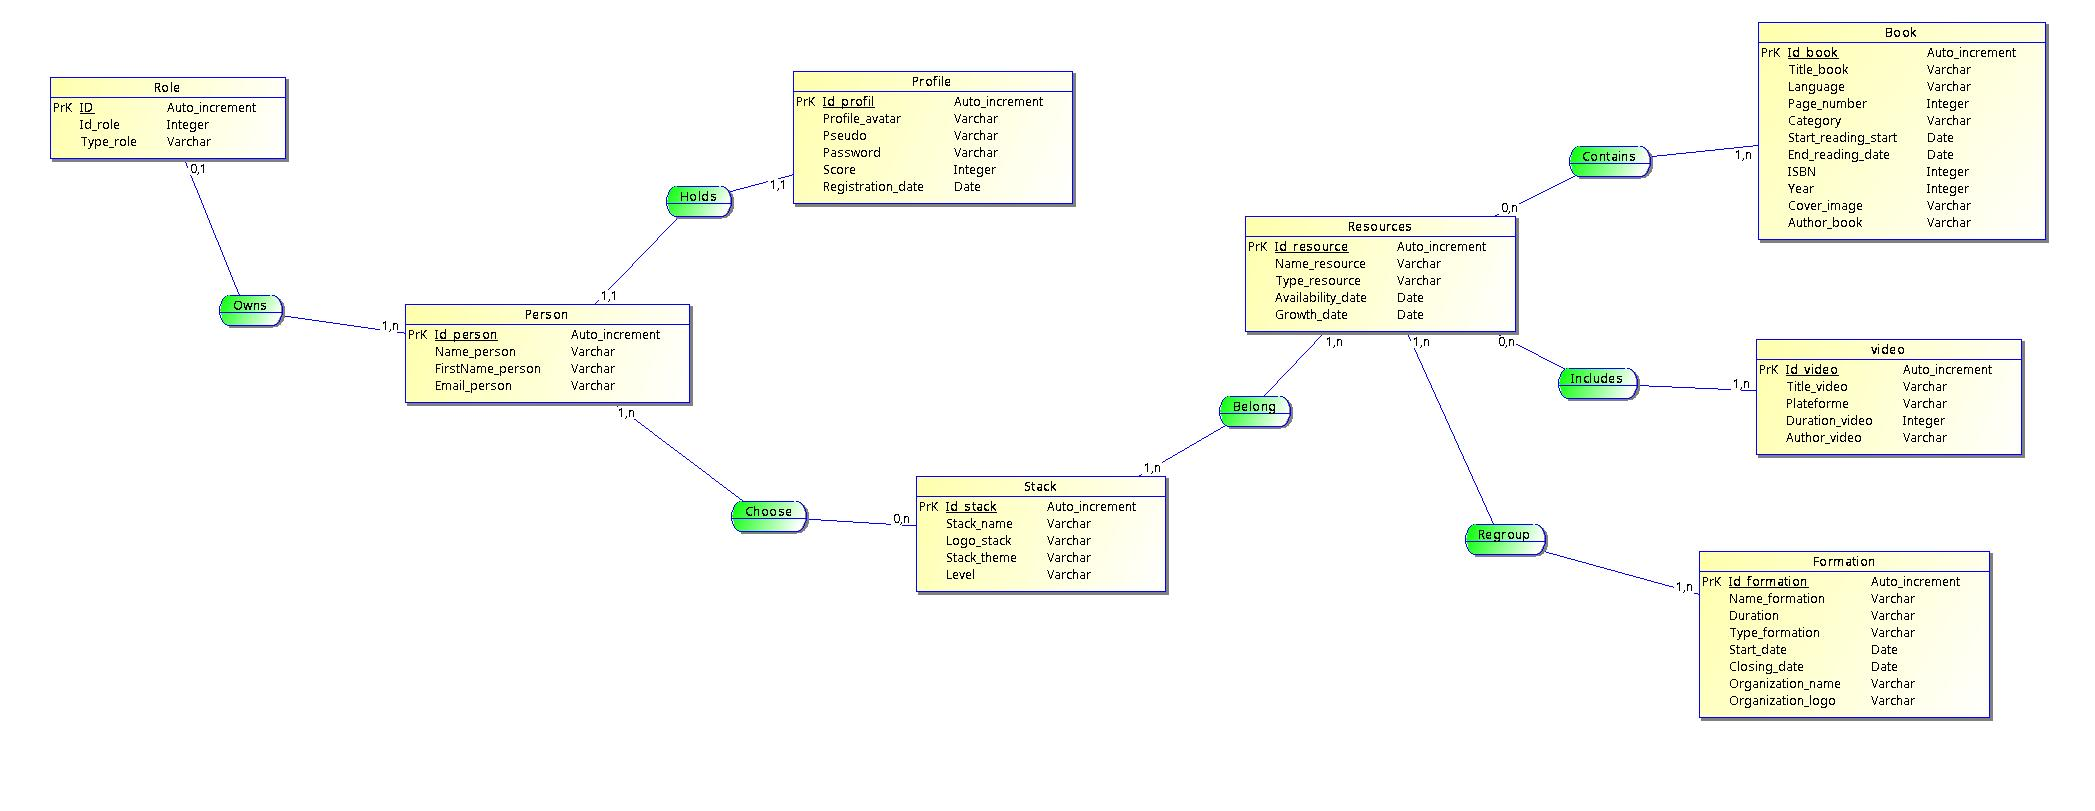
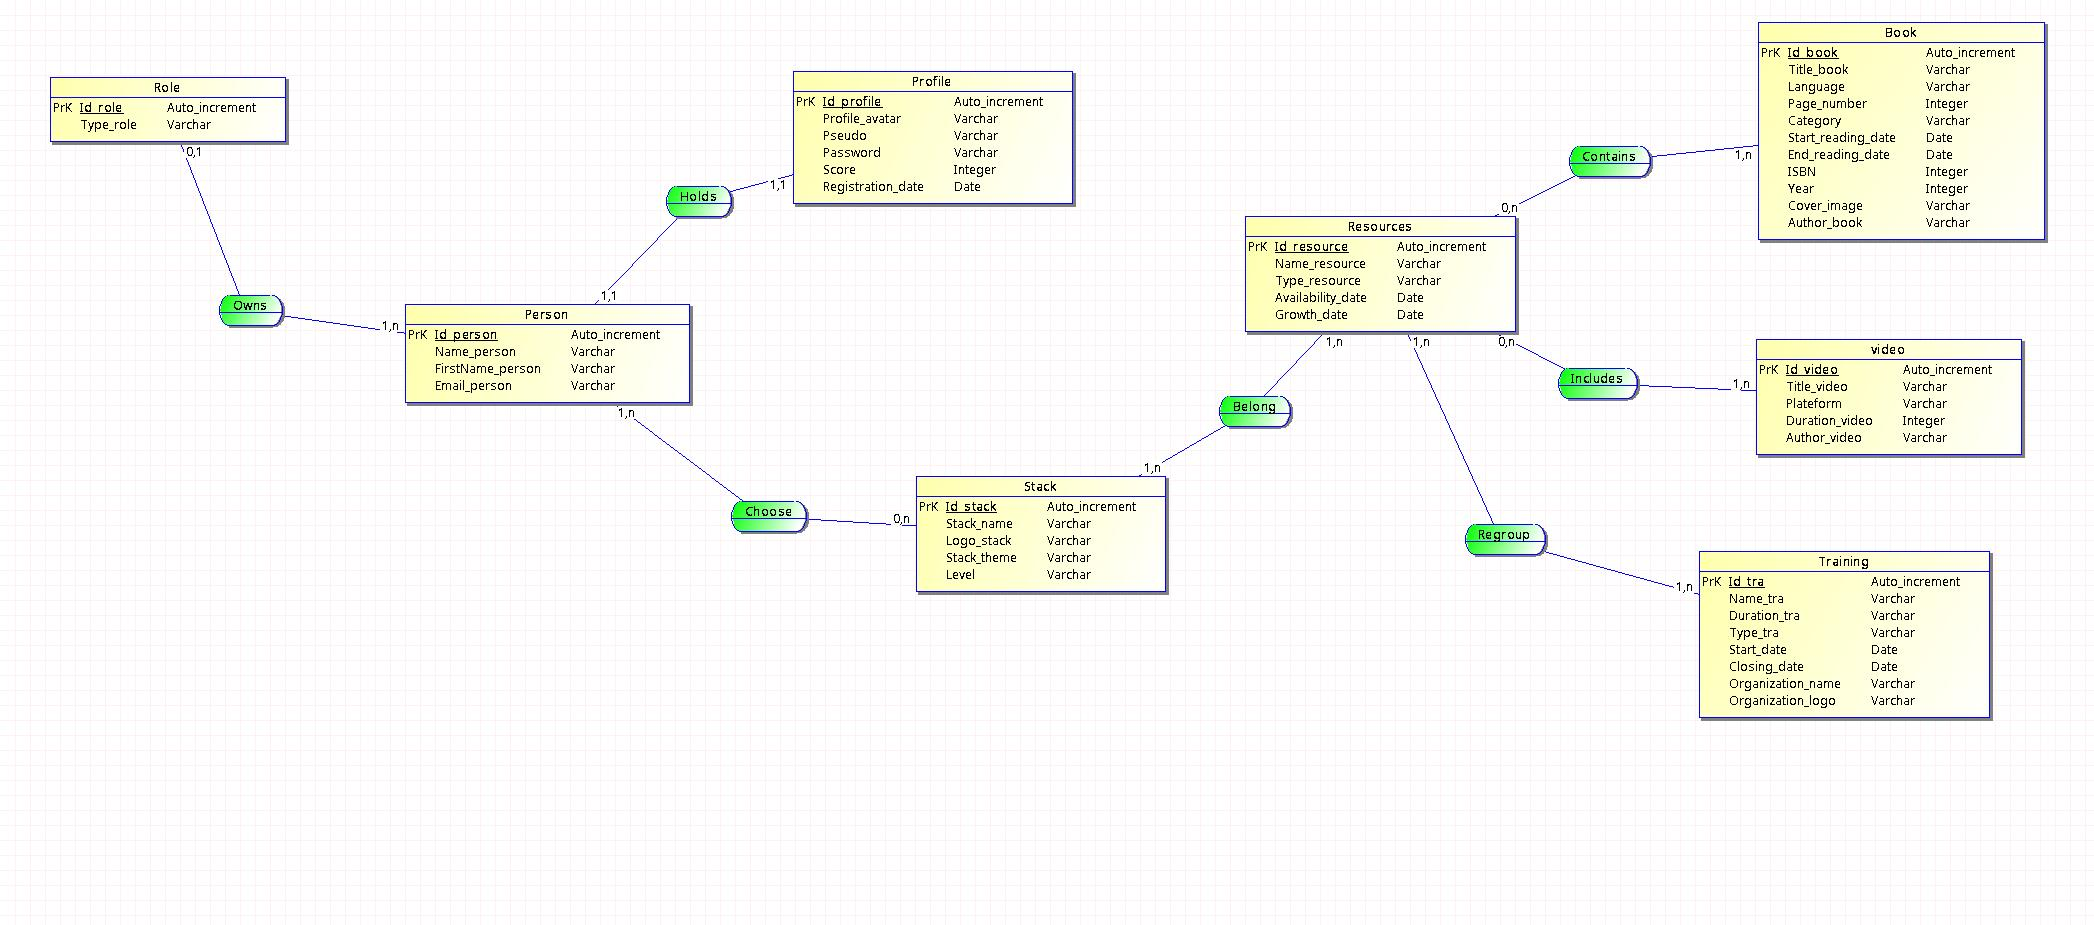
docs(common): update Merise folder and add data dictionnary

diff --git a/doc/DICTIONNAIRE.md b/doc/DICTIONNAIRE.md
@@ -1,0 +1,57 @@
+## Dictionnaire de données
+
+| Name               | Signification                         | Type                |
+| :----------------- | :------------------------------------ | :------------------ |
+| Id_person          | Id of person                          | Int(auto_increment) |
+| Name_person        | Name of person                        | Varchar             |
+| FirstName_person   | First name of person                  | Varchar             |
+| Email_person       | Email of person                       | Varchar             |
+|                    |                                       |                     |
+| Id_role            | Id of role                            | Int(auto_increment) |
+| Type_role          | Type of role                          | Varchar             |
+|                    |                                       |                     |
+| Id_resource        | Unique id for role                    | Int(auto_increment) |
+| Name_resource      | Name of resource                      | Varchar             |
+| Type_resource      | Type of resource                      | Varchar             |
+| Avaibility_date    | Resource availability date            | Date                |
+| Growth_date        | Date of resource growth               | Date                |
+|                    |                                       |                     |
+| Id_profile         | Unique id for profile                 | Int(auto_increment) |
+| Profile_avatar     | Avatar for profile user               | Varchar             |
+| Pseudo             | Pseudo for user                       | Varchar             |
+| Password           | Login password                        | Varchar             |
+| Score              | User score                            | Integer             |
+| Registration_date  | Date of registration                  | Date                |
+|                    |                                       |                     |
+| Id_stack           | Unique id for the stack               | Int(auto_increment) |
+| Stack_name         | Name of stack                         | Varchar             |
+| Logo_stack         | Logo of the stack                     | Varchar             |
+| Stack_theme        | Theme of the stack                    | Varchar             |
+| Level              | User level                            | Varchar             |
+|                    |                                       |                     |
+| Id_book            | Unique id for a book                  | Int(auto_increment) |
+| Title_book         | Title of the book                     | Varchar             |
+| Language           | Language of the book                  | Varchar             |
+| Page_number        | Number of pages in the book           | Integer             |
+| Category           | Category of the book                  | Varchar             |
+| Start_reading_date | Starting date of the reading          | Date                |
+| End_reading_date   | End date of reading                   | Date                |
+| ISBN               | Book identification number            | Integer             |
+| Year               | Year of publication of the book       | Integer             |
+| Cover_image        | Cover of the book                     | Varchar             |
+| Author_book        | Author of the book                    | Varchar             |
+|                    |                                       |                     |
+| Id_video           | Unique id for a video                 | Int(auto_increment) |
+| Title_video        | Title of the video                    | Varchar             |
+| Plateform          | Platform where you can find the video | Varchar             |
+| Duration_video     | Duration of the video                 | Integer             |
+| Author_video       | Author of the video                   | Varchar             |
+|                    |                                       |                     |
+| Id_tra             | Unique id for a training              | Int(auto_increment) |
+| Name_tra           | Name of the training                  | Varchar             |
+| Duration_tra       | Duration of training                  | Integer             |
+| Type_tra           | Type of training                      | Varchar             |
+| Start_date         | Start date of the training            | Date                |
+| Closing_date       | End date of the training              | Date                |
+| Organization_name  | Name of the organization              | Varchar             |
+| Organization_logo  | Logo of the organization              | Varchar             |

diff --git a/doc/Merise/MCD.md b/doc/Merise/MCD.md
@@ -1,3 +1,3 @@
 ## MCD
 
-![](/doc/Merise/asset/MCD.jpeg)
+[![/doc/Merise/asset/MCD.jpeg](/doc/Merise/asset/MCD.jpeg)](/doc/Merise/asset/MCD.jpeg)

diff --git a/doc/Merise/MLD.md b/doc/Merise/MLD.md
@@ -1,3 +1,3 @@
 ## MLD
 
-![](/doc/Merise/asset/MLD.jpeg)
+[![/doc/Merise/asset/MLD.jpeg](/doc/Merise/asset/MLD.jpeg)](/doc/Merise/asset/MLD.jpeg)
